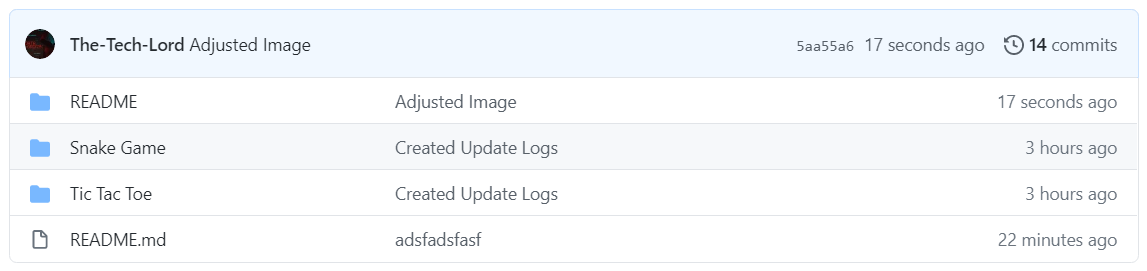
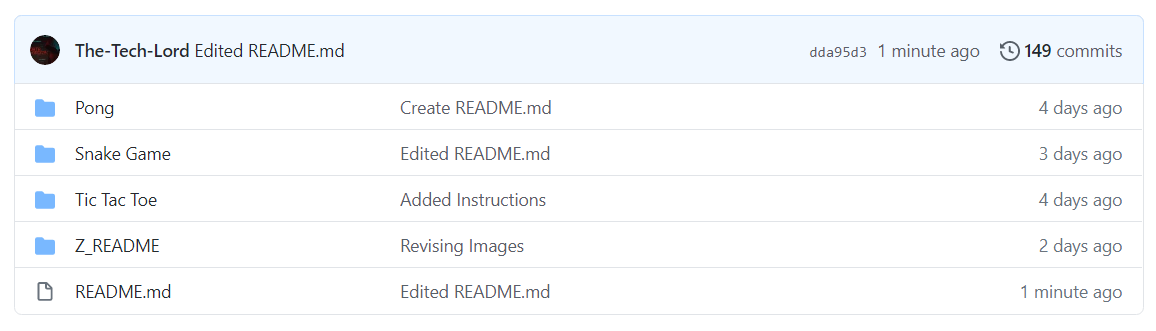
Added Minecraft Translator and Edited README.md

diff --git a/Minecraft Translator (Discord)/Minecraft_Translator.c b/Minecraft Translator (Discord)/Minecraft_Translator.c
@@ -1,0 +1,20 @@
+#include <stdio.h>
+#include <stdlib.h>
+#include <string.h>
+#include <windows.h>
+
+int main() {
+    char str_letters[] = {'a', 'b', 'c', 'd', 'e', 'f', 'g', 'h', 'i', 'j', 'k', 'l', 'm', 'n', 'o', 'p', 'q', 'r', 's', 't', 'u', 'v', 'w', 'x', 'y', 'z', ' '};
+
+    char minecraft[5072];
+    gets(minecraft);
+    int str_length = strlen(minecraft);
+
+    for (int string_stop = 0; string_stop < str_length; string_stop++) {
+        for (int index = 0; index != 26; index++) {
+            if (minecraft[string_stop] == str_letters[index]) { printf(" :%c_:", str_letters[index]); }
+            if (minecraft[string_stop] == str_letters[26]) { printf("%c%c", str_letters[26], str_letters[26]); break; }
+        }
+    }
+    Sleep(1000 * 240);
+}
